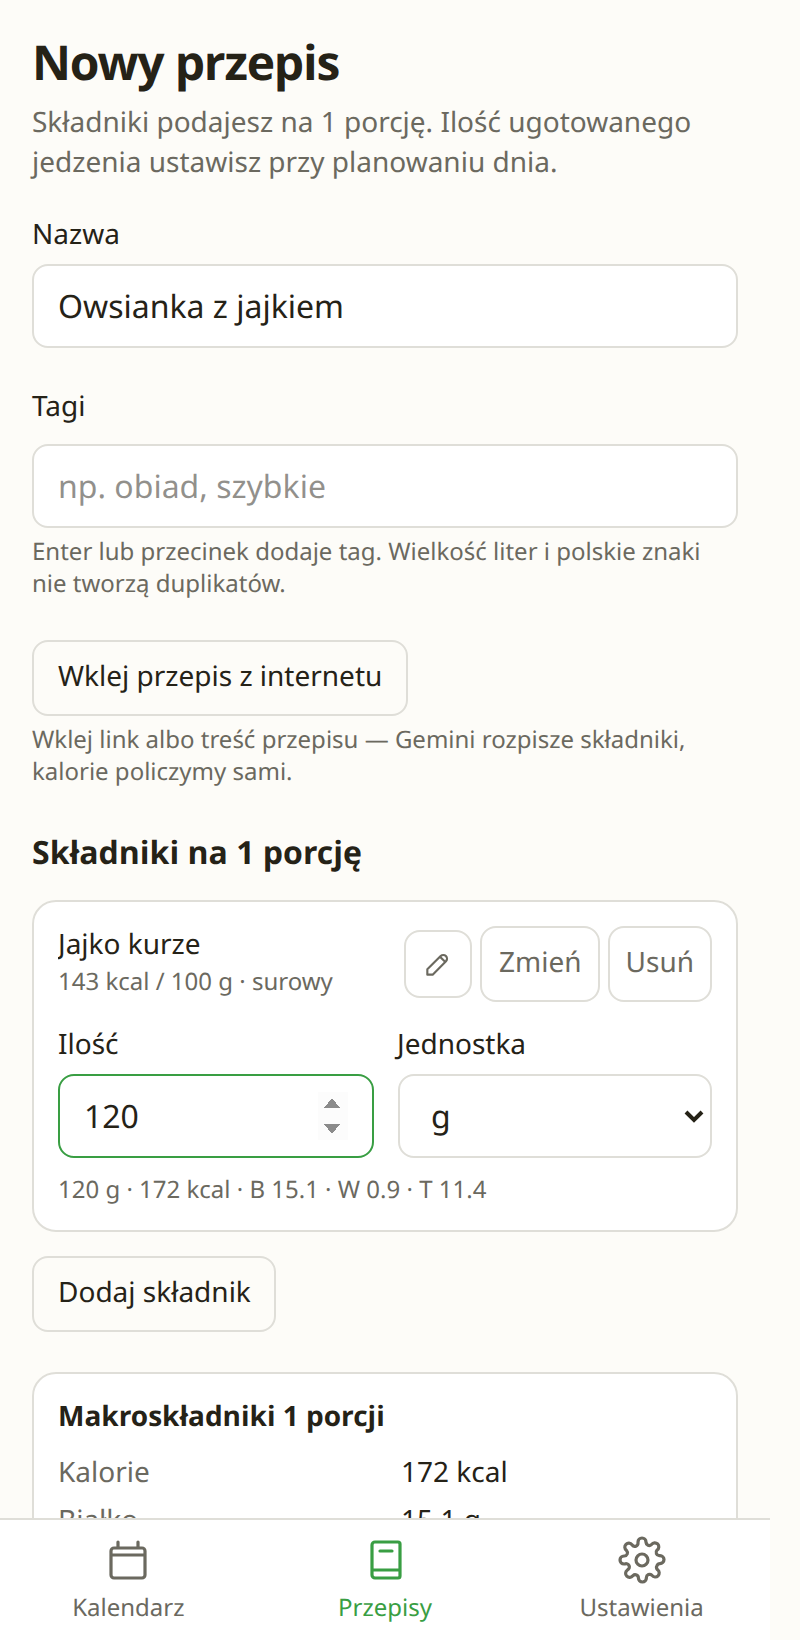
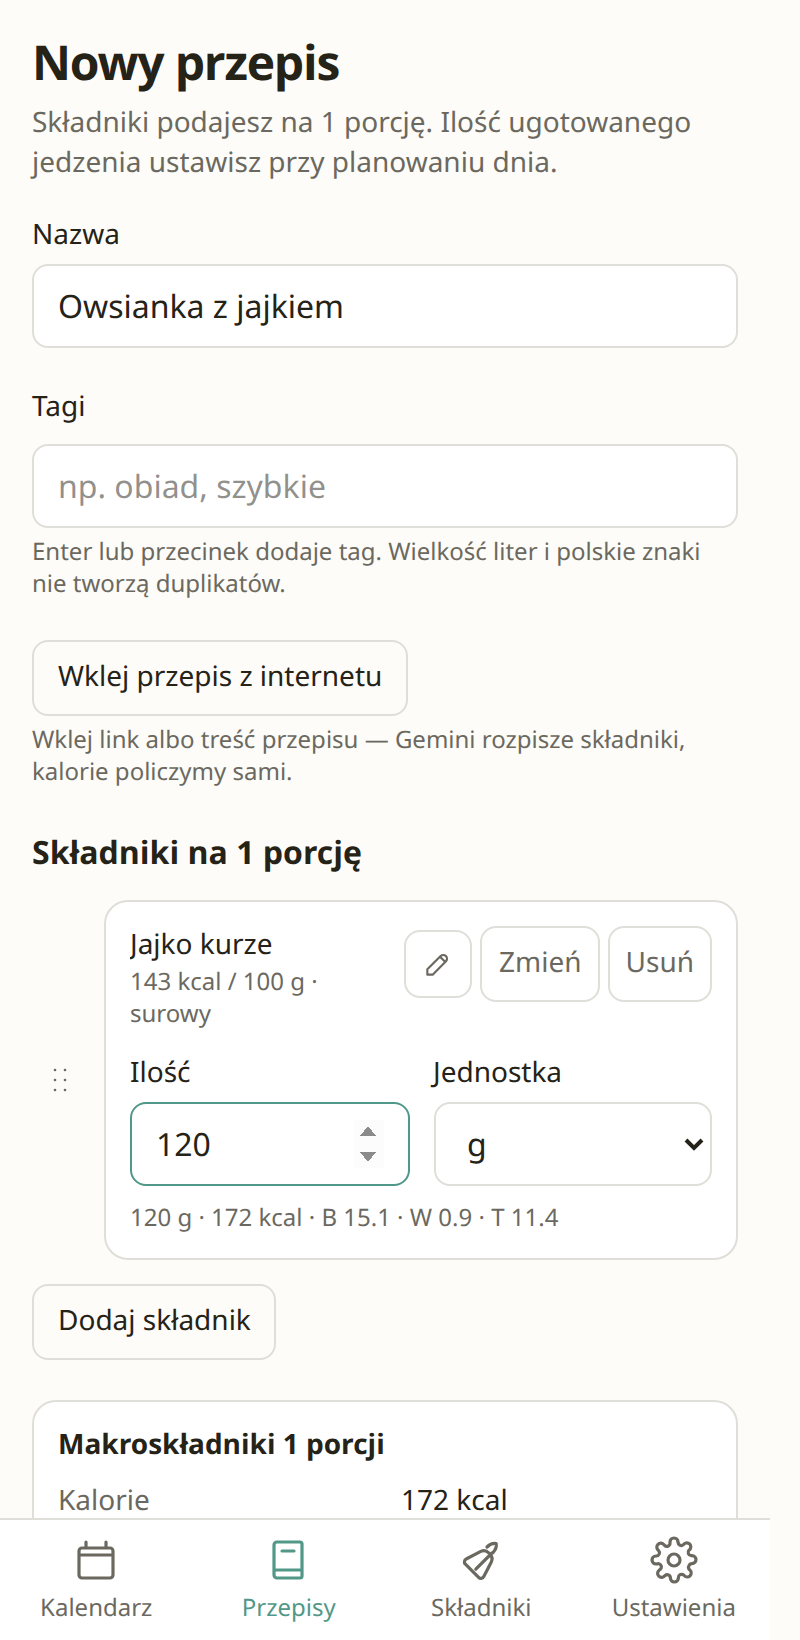
docs: bring the README back in line with the app it describes
The README was last touched in the Phase 8 commit and has described a v1.0 app
ever since, through four releases and three phases.

- The screenshots predate the ingredient library, so they show a three-item
  navigation bar, and predate the brand icons, so they show the old accent.
  Retaken against the current build.
- The status blockquote claimed phases 1-8 and called Phase 9 a future list.
  Phases 1-11 are done and the app is live; it now points at the releases page
  rather than naming a version that will go stale again.
- The backup section was not merely thin but wrong: it promised the export
  deliberately withholds the vault, which decision 184 reversed in Phase 10.
  A user reading it would leave a device believing their Gemini key had not
  travelled in a file that in fact carries it.
- The vault is only encrypted if the user keeps the master password; the
  README stated the encryption as unconditional.
- Nothing described the cooked-versus-eaten split, the shopping list or the
  ingredient library, which is most of what two phases added.

diff --git a/README.md b/README.md
@@ -8,10 +8,14 @@ goals. Installable as a PWA on Android and desktop, and usable offline.
 
 The interface is in **Polish**. The code, comments and documentation are in English.
 
-> **Status: feature-complete for 1.0.** Phases 1–8 of [PLAN.md](PLAN.md) are done: the
-> calendar, the recipe library, the nutrition database, Drive sync, the encrypted vault, the
-> Gemini import, and the installable offline PWA. [STATE.md](STATE.md) is the record of what
-> was decided and what is still open; [PLAN.md](PLAN.md) Phase 9 is the post-1.0 comfort list.
+> **Status: released, and in daily use.** Phases 1–11 of [PLAN.md](PLAN.md) are done — the
+> calendar, the recipe library, the nutrition database, Drive sync, the vault, the Gemini import
+> and the installable offline PWA for 1.0, then three phases that daily use asked for after it:
+> the comfort features (9), an ingredient library and a backup that finally holds everything
+> (10), and a round of fixes to what the app says (11). The live app is
+> https://eatmyway.gorny.dev; the [releases](https://github.com/zyndata/eat-my-way/releases) and
+> [CHANGELOG.md](CHANGELOG.md) say what is in the current build, and [STATE.md](STATE.md) is the
+> record of what was decided and what is still open.
 
 ## What it looks like
 
@@ -30,8 +34,15 @@ The interface is in **Polish**. The code, comments and documentation are in Engl
   values.
 - **History is frozen.** Each planned meal stores a snapshot of its macros, so editing a recipe
   today never rewrites what you ate last month.
+- **It is shaped around cooking, not logging.** A recipe is written once, per portion; the day
+  view scales it to how much you cooked and how much you actually ate, which are two different
+  numbers and only the second one counts towards the day. A meal turns into a shopping list, a
+  batch cooked today can be planned onto tomorrow with one checkbox, and anything the USDA
+  subset does not know you add once to your own ingredient library.
 - **Bring your own key.** The optional Gemini recipe import uses *your* API key, stored in a
-  vault encrypted with Argon2id + AES-GCM. The decrypted key never leaves your browser's memory.
+  vault that is encrypted with Argon2id + AES-GCM behind a master password by default; the
+  decrypted key never leaves your browser's memory. You may decline the password, and the app
+  then says plainly — on every screen that moves the vault — that the key is stored unencrypted.
 - **It works with the network off.** Installed as a PWA it opens, plans and edits in airplane
   mode. Only two things need a connection — syncing with Drive and importing a recipe — and both
   say so in plain Polish and pick themselves up when the network returns.
@@ -95,10 +106,14 @@ enter the master password when the vault is fetched. The calendar, the recipes, 
 ingredients and the Gemini key all come back from the app's private `appDataFolder`.
 
 **A new device, without Drive.** *Zapisz kopię* on the old device writes one JSON file with
-everything local in it; *Wczytaj kopię* on the new one reads it back and replaces what is
-there. The file deliberately does **not** contain the vault — re-enter the Gemini key
-afterwards, because a backup ends up in Downloads and in mail attachments, and an API key
-should not travel that way.
+everything local in it — the goals, the recipes, the tags, your own ingredients, every planned
+day, and the vault; *Wczytaj kopię* on the new one reads it back and replaces what is there.
+The vault travels exactly as the device holds it, so an encrypted vault is an Argon2id + AES-GCM
+blob and the master password is nowhere in the file — you re-enter it at the first import after
+the restore. If you chose a vault **without** a password, the Gemini key is in that file in the
+clear; the export screen says which of those two files it is about to write before it writes it.
+A backup ends up in Downloads and in mail attachments, so treat an unencrypted one as you would
+the key itself.
 
 **A forgotten master password.** It cannot be recovered: nothing anywhere stores it. *Nie
 pamiętam hasła* → *Załóż sejf od nowa* discards the vault and asks for the Gemini key again.
